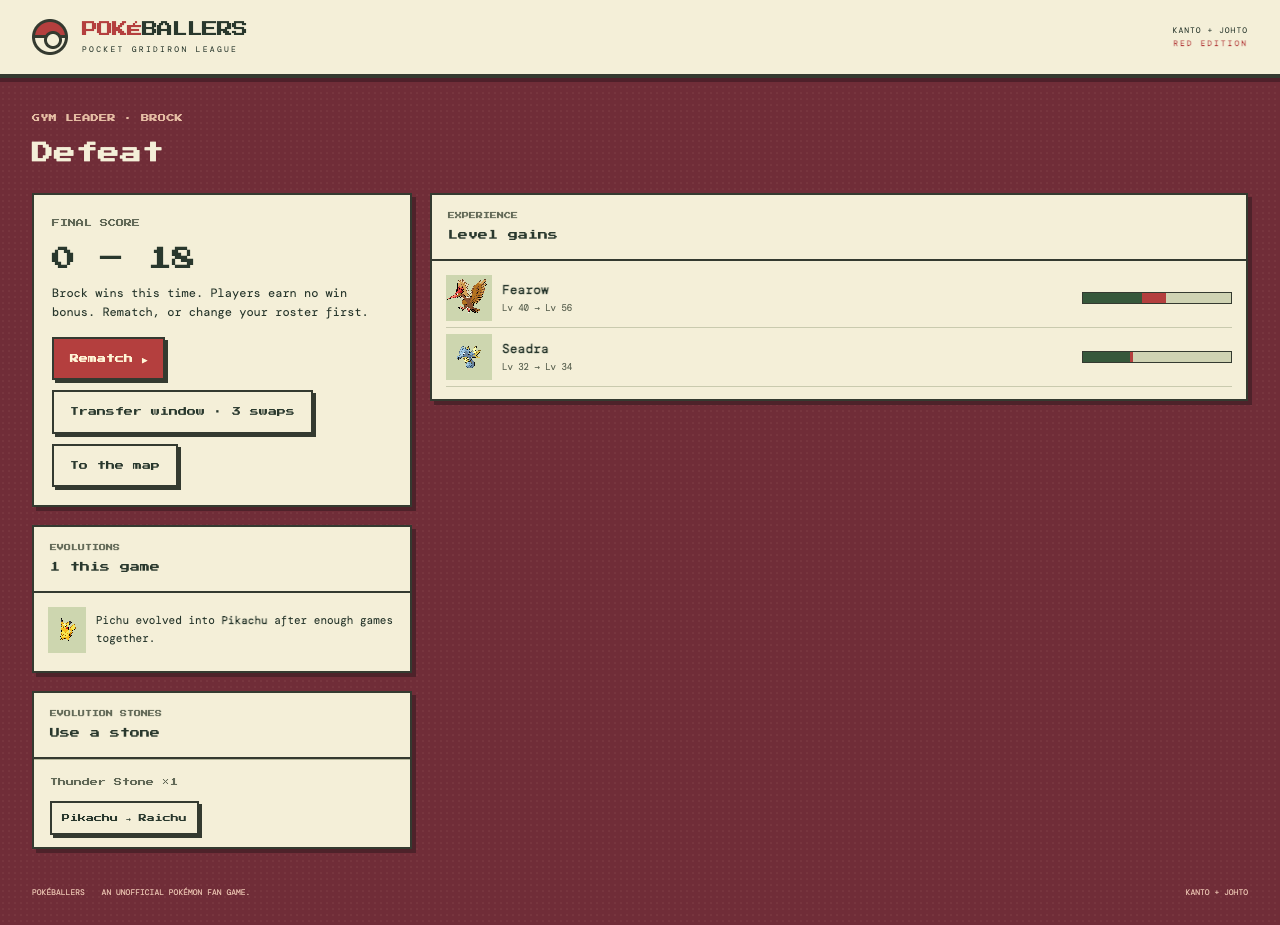
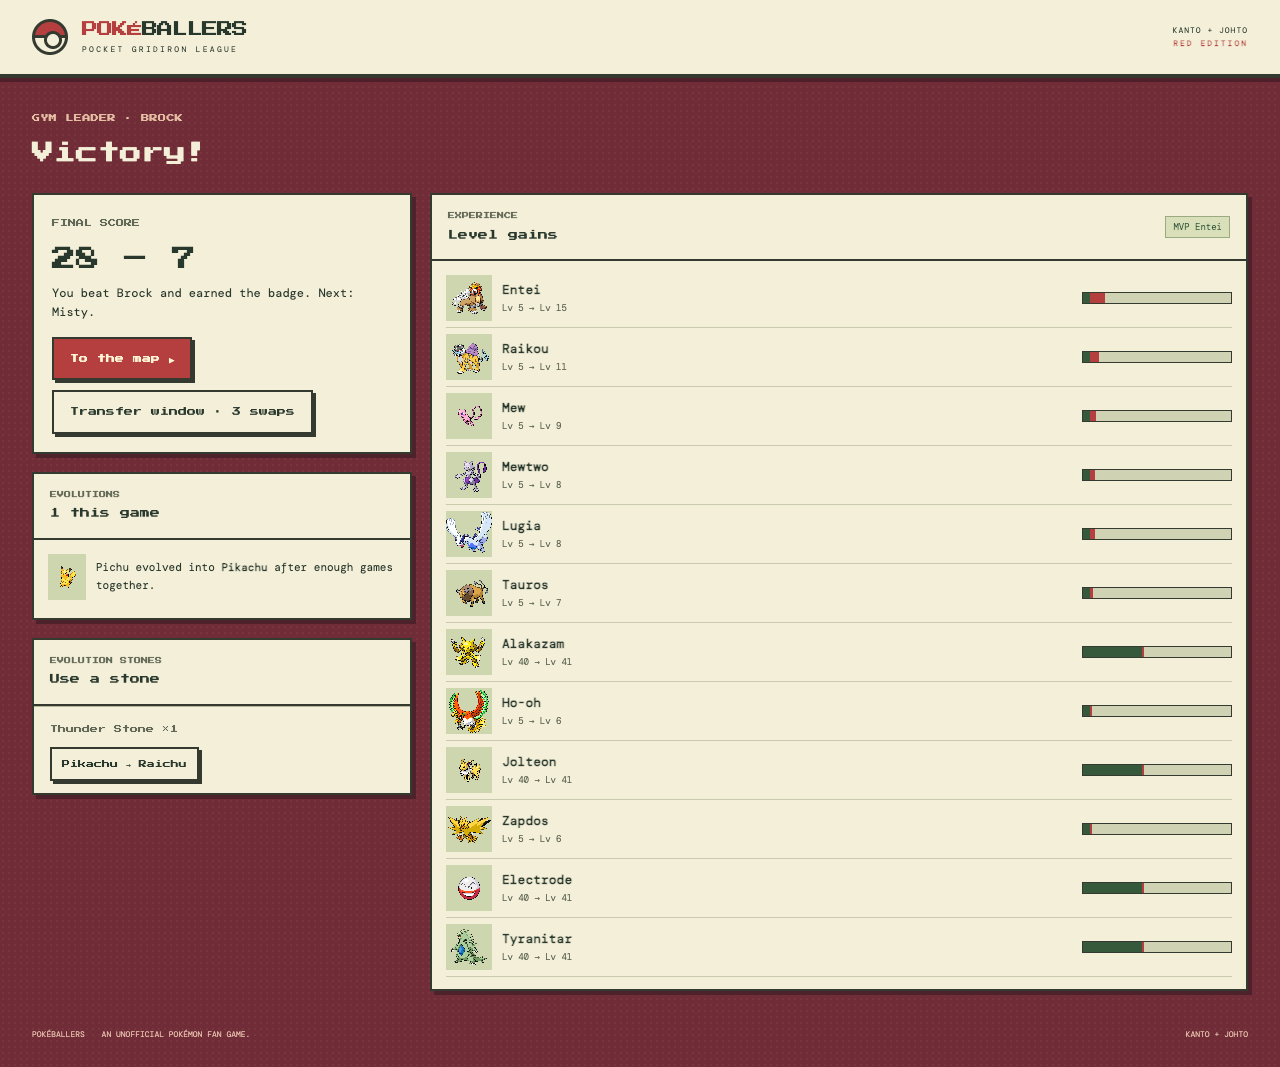
feat: tune leader caps and level gains
Leader caps come from node scripts/league-balance.cjs 200 0
(clashes on, CPU on both sides, human side on the auto clash
action, 13,000-credit evolvable-pool roster, no transfers).
Gains: impact x 0.4 rounded, plus 1 per win.

Cap, style, target, win%/game (first-try%):
Brock 9,800 run 80 81 (84); Misty 9,600 pass 76 77 (80);
Lt. Surge 9,500 pass 73 77 (78); Erika 10,075 run 69 63 (62);
Koga 9,800 pressure 65 67 (72); Sabrina 9,900 61 57 (63);
Blaine 12,300 58 54 (58); Giovanni 13,900 run 54 51 (53);
Lorelei 13,000 50 48 (57); Bruno 15,500 46 44 (48);
Agatha 14,200 pressure 43 37 (37); Lance 15,800 39 35 (43);
Rival 17,100 35 35 (44). All within 6 points of target.
93% of circuits finish. 64% of the 31 starting players
evolve at least once (68% of the 22 starters). With 3
upgrade transfers per window the roster wins 85% at Brock and
96-100% from Misty on.

Erika's rate jumps 87% to 51% between caps 10,072 and 10,075,
so her style is run. The leader core now reserves the cheapest
fill so low caps stay legal.

Claude-Session: https://claude.ai/code/session_013TCNSY2QJnqZSERSkBSb6u

diff --git a/src/game/league.js b/src/game/league.js
@@ -29,23 +29,25 @@
     static FINAL_LEVEL = 40;
     static NON_LEVEL_FLOOR = 20;
     static MAX_LEVEL = 100;
-    static WIN_BONUS = 2;
+    static WIN_BONUS = 1;
+    // Scales the box-score gains so a circuit evolves about half of the starting roster.
+    static IMPACT_SCALE = 0.4;
     static YARDS_PER_LEVEL = 10;
     static FRIENDSHIP_GAMES = 5;
     static LEADERS = [
-      { name: 'Brock', title: 'Gym Leader', type: 'Rock', style: 'run', cap: 15500, stone: null },
-      { name: 'Misty', title: 'Gym Leader', type: 'Water', style: 'pass', cap: 16500, stone: 'water-stone' },
-      { name: 'Lt. Surge', title: 'Gym Leader', type: 'Electric', style: 'pass', cap: 17500, stone: 'thunder-stone' },
-      { name: 'Erika', title: 'Gym Leader', type: 'Grass', style: 'balanced', cap: 18500, stone: 'leaf-stone' },
-      { name: 'Koga', title: 'Gym Leader', type: 'Poison', style: 'pressure', cap: 19500, stone: null },
-      { name: 'Sabrina', title: 'Gym Leader', type: 'Psychic', style: 'balanced', cap: 20500, stone: 'moon-stone' },
-      { name: 'Blaine', title: 'Gym Leader', type: 'Fire', style: 'balanced', cap: 22000, stone: 'fire-stone' },
-      { name: 'Giovanni', title: 'Gym Leader', type: 'Ground', style: 'run', cap: 23000, stone: 'sun-stone' },
-      { name: 'Lorelei', title: 'Elite Four', type: 'Ice', style: 'balanced', cap: 24000, stone: null },
-      { name: 'Bruno', title: 'Elite Four', type: 'Fighting', style: 'balanced', cap: 25000, stone: null },
-      { name: 'Agatha', title: 'Elite Four', type: 'Ghost', style: 'pressure', cap: 26000, stone: null },
-      { name: 'Lance', title: 'Elite Four', type: 'Dragon', style: 'balanced', cap: 27000, stone: null },
-      { name: 'Rival', title: 'Champion', type: null, style: 'balanced', cap: 28000, stone: null },
+      { name: 'Brock', title: 'Gym Leader', type: 'Rock', style: 'run', cap: 9800, stone: null },
+      { name: 'Misty', title: 'Gym Leader', type: 'Water', style: 'pass', cap: 9600, stone: 'water-stone' },
+      { name: 'Lt. Surge', title: 'Gym Leader', type: 'Electric', style: 'pass', cap: 9500, stone: 'thunder-stone' },
+      { name: 'Erika', title: 'Gym Leader', type: 'Grass', style: 'run', cap: 10075, stone: 'leaf-stone' },
+      { name: 'Koga', title: 'Gym Leader', type: 'Poison', style: 'pressure', cap: 9800, stone: null },
+      { name: 'Sabrina', title: 'Gym Leader', type: 'Psychic', style: 'balanced', cap: 9900, stone: 'moon-stone' },
+      { name: 'Blaine', title: 'Gym Leader', type: 'Fire', style: 'balanced', cap: 12300, stone: 'fire-stone' },
+      { name: 'Giovanni', title: 'Gym Leader', type: 'Ground', style: 'run', cap: 13900, stone: 'sun-stone' },
+      { name: 'Lorelei', title: 'Elite Four', type: 'Ice', style: 'balanced', cap: 13000, stone: null },
+      { name: 'Bruno', title: 'Elite Four', type: 'Fighting', style: 'balanced', cap: 15500, stone: null },
+      { name: 'Agatha', title: 'Elite Four', type: 'Ghost', style: 'pressure', cap: 14200, stone: null },
+      { name: 'Lance', title: 'Elite Four', type: 'Dragon', style: 'balanced', cap: 15800, stone: null },
+      { name: 'Rival', title: 'Champion', type: null, style: 'balanced', cap: 17100, stone: null },
     ];
 
     constructor(catalog, roster, seed) {
@@ -120,9 +122,13 @@
         .sort((a, b) => best(b) - best(a) || a.id - b.id);
       let spent = 0;
       const picked = [];
+      const cheapest = this.catalog.map((mon) => Roster.salary(mon)).sort((a, b) => a - b);
       for (const mon of stars) {
         if (picked.length === League.CORE_SIZE) break;
+        // The cheapest possible fill for the other slots must still fit under the cap.
+        const fill = cheapest.slice(0, POSITIONS.length - picked.length - 1).reduce((sum, value) => sum + value, 0);
         if (spent + Roster.salary(mon) > leader.cap * League.CORE_SHARE) continue;
+        if (spent + Roster.salary(mon) + fill > leader.cap) continue;
         spent += Roster.salary(mon);
         picked.push(mon);
       }
@@ -155,7 +161,8 @@
       const gains = this.roster.players.map((mon) => {
         const impact = League.impact(game.stats.home[mon.id]);
         const from = this.level(mon);
-        const to = Math.min(League.MAX_LEVEL, from + impact + (win ? League.WIN_BONUS : 0));
+        const earned = Math.round(impact * League.IMPACT_SCALE) + (win ? League.WIN_BONUS : 0);
+        const to = Math.min(League.MAX_LEVEL, from + earned);
         return { mon, impact, from, to };
       });
       const mvp = win ? gains.reduce((top, entry) => (entry.impact > top.impact ? entry : top)).mon : null;

diff --git a/docs/plans/league-engine.md b/docs/plans/league-engine.md
@@ -19,9 +19,9 @@ A circuit is a lifecycle across games, and `FootballGame` is one game. Putting l
 
 ## How it will be built
 
-1. **Constants.** `League.LEADERS` lists the 13 entries `{ name, type, style, cap, stone }` in circuit order. The caps run from 14,000 to 27,000 credits in even steps of 1,083, rounded to 500. Stones: Misty Water, Lt. Surge Thunder, Erika Leaf, Sabrina Moon, Blaine Fire. Styles: Brock and Giovanni `run`, Misty and Lt. Surge `pass`, Koga and Agatha `pressure`, all others `balanced`. The Champion has no type.
+1. **Constants.** `League.LEADERS` lists the 13 entries `{ name, type, style, cap, stone }` in circuit order. Each cap comes from `scripts/league-balance.cjs` (table in GAMEPLAY-IDEAS, Tuned values); uneven steps are expected. Stones: Misty Water, Lt. Surge Thunder, Erika Leaf, Sabrina Moon, Blaine Fire, Giovanni Sun. Styles: Brock, Erika and Giovanni `run`, Misty and Lt. Surge `pass`, Koga and Agatha `pressure`, all others `balanced`. The Champion has no type.
 2. **Leader core.** Rank every catalog Pokémon of the leader's type by its best `Roster.rating` over positions. Take up to 12 Pokémon, best first, while the core's salary stays within 60% of the cap. Assign each one to its best open slot (`POSITIONS` order, best rating first). Pass the core to `Roster.random` as fixed slots; it fills the rest under the remaining cap with its existing reserve rule. The leader roster is seeded from `League`'s `random`, so a retry faces the same team.
-3. **Levels.** A drafted Pokémon starts at its stage floor: a species with no `evolves_from` starts at 5; a species that evolves from another starts at the previous step's `min_level` (or 20 for a non-level step); a final form with no further evolution starts at 40. Gains after each game: `floor(yards / 10) + 3 × touchdowns + tackles + 2 × (sacks + interceptions) + moveHits`, plus 2 for every player on the winning team. Levels cap at 100.
+3. **Levels.** A drafted Pokémon starts at its stage floor: a species with no `evolves_from` starts at 5; a species that evolves from another starts at the previous step's `min_level` (or 20 for a non-level step); a final form with no further evolution starts at 40. Gains after each game: `floor(yards / 10) + 3 × touchdowns + tackles + 2 × (sacks + interceptions) + moveHits`, scaled by `League.IMPACT_SCALE` (0.4) and rounded, plus `League.WIN_BONUS` (1) for every player on the winning team. Levels cap at 100.
 4. **Evolution order.** After `record(game)`: level evolutions fire for every player at or above `min_level`; trade evolutions fire for the game MVP (the winning team's player with the highest gain); friendship evolutions fire at 5 games played. Stones go into `League.stones` and fire only through `evolve(monId, stone)`. An evolution whose target species is already on the roster waits and reports "already on your team". Each evolution returns an event `{ from, into, reason }` for the post-game screen.
 5. **Transfers.** `transfer(outId, inId)` swaps a roster player for a catalog Pokémon that is not on the roster, at most 3 per window. A transfer throws `RangeError` only when payroll after it is above the player's cap (13,000 plus 1,000 per badge, `League.playerCap`) and the transfer raises payroll; evolution may push payroll over the cap. Leader caps belong to leader rosters. The starting draft and `Roster.random` for the player use `League.startingPool` (Pokémon with an evolution left); transfers may bring in any Pokémon. Giovanni awards the Sun Stone. The window resets after each game. A transferred-in player starts at its stage floor.
 6. **Save.** `toJSON()` stores the stage index, badges, stones, per-player `{ id, level, games, moves }` in roster order, the transfers left, and the seed state of `random`. `fromJSON` rebuilds the same `League`; the saved `random` state makes the next leader roster and game identical. `GameApp` stores it under one key, `pokeballers.league.v1`, in `try/catch`.
@@ -31,7 +31,7 @@ A circuit is a lifecycle across games, and `FootballGame` is one game. Putting l
 
 - `tests/test_pokedex.py`: Bulbasaur → Ivysaur at 16; Pikachu → Raichu with the Thunder Stone; Kadabra → Alakazam by trade; Golbat → Crobat by friendship; no target above 251; no Fairy type; Clefairy is Normal.
 - `tests/test_league.cjs` (new, wired into `npm test`): every leader roster is legal under its cap; Agatha's roster holds all 4 Ghost types; `Roster.evolve` moves stamina, conditions, stages, and moveset to the new id; a duplicate target waits; a saved and reloaded league plays the next game with the same result; a fourth transfer throws; `FootballGame.stats` sums to the drive log's yards.
-- `scripts/league-balance.cjs`: 200 seeded circuits, CPU coaching both sides, a 13,000-credit starting roster. It prints the share of starters that evolve at least once (target 40–70%) and the win rate per leader (target: about 80% at Brock, falling to about 35% at the Champion). Tune the gain formula and the cap steps to hit the targets, and put the final numbers in the commit body.
+- `scripts/league-balance.cjs`: 200 seeded circuits, CPU coaching both sides, a 13,000-credit starting roster. It prints the share of starters that evolve at least once (target 40–70%) and the win rate per leader (target: about 80% at Brock, falling to about 35% at the Champion). The simulation resolves each clash with the auto action on the human side. The final tables are in GAMEPLAY-IDEAS, Tuned values.
 - Playwright (headless Chrome via the scratchpad install): start a circuit, beat Brock with a seeded win, see the report with one evolution, make one transfer, reload the page, and see the saved league. Screenshots at 1280px and 390px go under `docs/screenshots/png/league-*.png`.
 
 ## Risks

diff --git a/docs/GAMEPLAY-IDEAS.md b/docs/GAMEPLAY-IDEAS.md
@@ -34,7 +34,7 @@ The circuit is 13 games in a fixed order: Brock (Rock), Misty (Water), Lt. Surge
 
 ### Leader rosters
 
-A leader's roster starts from a type core: up to 12 Pokémon of the leader's type, the highest-rated at their best positions, within 60% of the leader's credit cap. The existing `Roster.random()` rule fills the remaining slots with the rest of the cap. The core keeps the identity (Agatha's 4 Ghost types are her stars) and the fill keeps a full, legal 31-player team. Caps rise from 14,000 credits for Brock to 27,000 for the Champion in even steps, so early gyms are winnable with a starter roster.
+A leader's roster starts from a type core: up to 12 Pokémon of the leader's type, the highest-rated at their best positions, within 60% of the leader's credit cap. The existing `Roster.random()` rule fills the remaining slots with the rest of the cap. The core keeps the identity (Agatha's 4 Ghost types are her stars) and the fill keeps a full, legal 31-player team. Each leader's cap comes from the balance simulation (Tuned values), so early gyms are winnable with a starter roster.
 
 Each leader has a play style: Brock and Giovanni favor runs, Misty and Lt. Surge favor passes, Koga and Agatha favor blitzes and trick plays, and the rest stay balanced. The style adds a fixed bonus to its group in the CPU call score, so the CPU still reacts to down, distance, and clock.
 
@@ -42,7 +42,7 @@ Each leader has a play style: Brock and Giovanni favor runs, Misty and Lt. Surge
 
 You draft once at the start, under 13,000 credits. Your roster carries forward: players, movesets, and levels.
 
-- **Levels.** Every drafted player starts at the lowest level of its evolution stage (a base form at 5, a middle form at the level it evolved, a final form at 40). After each game, each player gains levels from its impact: 1 level per 10 yards gained, 3 per touchdown, 1 per tackle, 2 per sack or interception, and 1 per move hit, plus 2 for every player on the winning team. Impact comes from the drive log and `result.participants`, which the engine already records.
+- **Levels.** Every drafted player starts at the lowest level of its evolution stage (a base form at 5, a middle form at the level it evolved, a final form at 40). After each game, each player gains levels from its impact: 1 level per 10 yards gained, 3 per touchdown, 1 per tackle, 2 per sack or interception, and 1 per move hit, scaled by 0.4 and rounded, plus 1 for every player on the winning team. Impact comes from the drive log and `result.participants`, which the engine already records.
 - **Evolution.** A player evolves when its level reaches the PokeAPI `min_level`. Badges award evolution stones: Misty the Water Stone, Lt. Surge the Thunder Stone, Erika the Leaf Stone, Blaine the Fire Stone, Sabrina the Moon Stone. A stone evolves one player of your choice on the post-game screen. Trade evolutions (Kadabra, Machoke, Graveler, Haunter, and others) evolve when that player is the game MVP. Friendship evolutions (Pichu, Cleffa, Igglybuff, Togepi, Golbat, Chansey) evolve after 5 games played. Eevee takes the stone you give it.
 - **What an evolution changes.** The player takes the evolved species' base stats, types, sprite, and learnset. It keeps every known move that the new species still learns; the freed slots fill by the default-moveset rule. Its salary rises to the new species' salary.
 - **The transfer window.** Between games you swap up to 3 players with the free-agent pool, and the full roster must fit the next game's cap. Evolution raises salaries, so a strong evolved core forces you to trade depth for stars. That decision is the strategy layer of the circuit.
@@ -58,6 +58,28 @@ The scraper adds each Gen 1–2 species' evolution: the target species, trigger,
 - **League map:** the badge case, the next leader card with an original trainer portrait in the existing art style, the leader's type and style, and **Challenge**.
 - **Post-game report:** per-player experience bars, level-ups, and the evolution sequence ("What? Pikachu is evolving!") drawn on the `BattleStage` clock and skippable.
 - **Transfer window:** the existing draft screen with a 3-swap counter and the next leader's cap.
+
+### Tuned values
+
+Source: `node scripts/league-balance.cjs 200 0` with clashes on, CPU coaching both sides, the human side on its auto clash action, a 13,000-credit starting roster drafted from the evolvable pool, no transfers, 12 tries per leader. The player's payroll cap is 13,000 plus 1,000 per badge. Gain formula: box-score impact scaled by `IMPACT_SCALE` 0.4 and rounded, plus `WIN_BONUS` 1.
+
+| Leader | Cap | Style | Target win % | Win % per game | First-try win % |
+| --- | --- | --- | --- | --- | --- |
+| Brock | 9,800 | run | 80 | 81 | 84 |
+| Misty | 9,600 | pass | 76 | 77 | 80 |
+| Lt. Surge | 9,500 | pass | 73 | 77 | 78 |
+| Erika | 10,075 | run | 69 | 63 | 62 |
+| Koga | 9,800 | pressure | 65 | 67 | 72 |
+| Sabrina | 9,900 | balanced | 61 | 57 | 63 |
+| Blaine | 12,300 | balanced | 58 | 54 | 58 |
+| Giovanni | 13,900 | run | 54 | 51 | 53 |
+| Lorelei | 13,000 | balanced | 50 | 48 | 57 |
+| Bruno | 15,500 | balanced | 46 | 44 | 48 |
+| Agatha | 14,200 | pressure | 43 | 37 | 37 |
+| Lance | 15,800 | balanced | 39 | 35 | 43 |
+| Rival | 17,100 | balanced | 35 | 35 | 44 |
+
+Every leader sits within 6 points of its linear target. Erika's win rate jumps from 87% to 51% between caps of 10,072 and 10,075 (one star leaves her core), so her style is `run` to land at 63%. 93% of circuits finish. 64% of the 31 starting players evolve at least once (68% of the 22 starters). With 3 upgrade transfers per window, win rates reach 85% at Brock and 96-100% from Misty on, so transfers decide the circuit.
 
 ## Feature 2: Contact Clash
 

diff --git a/README.md b/README.md
@@ -124,11 +124,11 @@ The CPU calls plays from down, distance, field position, score, clock, roster ra
 
 ### Gym Challenge
 
-Choose **Gym Challenge** on the start screen to play a 13-game Kanto circuit: Brock, Misty, Lt. Surge, Erika, Koga, Sabrina, Blaine, Giovanni, the Elite Four (Lorelei, Bruno, Agatha, Lance), and your rival. Draft once under 13,000 credits from the Pokémon that still have an evolution left (base and middle forms). Each leader fields a team built around their type (up to 12 stars) under a credit cap that rises from 15,500 to 28,000, and favors a style: run-heavy, pass-heavy, or blitz and tricks. A win earns the badge and opens the next leader; a loss lets you rematch.
+Choose **Gym Challenge** on the start screen to play a 13-game Kanto circuit: Brock, Misty, Lt. Surge, Erika, Koga, Sabrina, Blaine, Giovanni, the Elite Four (Lorelei, Bruno, Agatha, Lance), and your rival. Draft once under 13,000 credits from the Pokémon that still have an evolution left (base and middle forms). Each leader fields a team built around their type (up to 12 stars) under a credit cap from 9,500 (Lt. Surge) to 17,100 (the rival) that the balance simulation sets per leader, and favors a style: run-heavy, pass-heavy, or blitz and tricks. A win earns the badge and opens the next leader; a loss lets you rematch.
 
 ![The Gym Challenge map with the badge case and roster levels](docs/screenshots/png/league-map-save-1280.png)
 
-Your roster carries from game to game. Every player starts at the lowest level of its evolution stage and gains levels from its box score (1 per 10 yards, 3 per touchdown, 1 per tackle, 2 per sack or interception, 1 per move hit) plus 2 for everyone after a win. A player evolves when it reaches its evolution level. Trade evolutions (Kadabra, Machoke, Graveler, Haunter, and others) need that player to be the game MVP, and friendship evolutions (Pichu, Cleffa, Igglybuff, Togepi, Golbat, Chansey) need 5 games played. Misty, Lt. Surge, Erika, Sabrina, Blaine, and Giovanni award the Water, Thunder, Leaf, Moon, Fire, and Sun Stones; use a stone on the post-game screen to evolve a player of your choice. An evolution keeps the moves the new species can learn and takes the new species' stats, types, and salary.
+Your roster carries from game to game. Every player starts at the lowest level of its evolution stage and gains levels from its box score (1 per 10 yards, 3 per touchdown, 1 per tackle, 2 per sack or interception, 1 per move hit, all scaled by 0.4 and rounded) plus 1 for everyone after a win. A player evolves when it reaches its evolution level. Trade evolutions (Kadabra, Machoke, Graveler, Haunter, and others) need that player to be the game MVP, and friendship evolutions (Pichu, Cleffa, Igglybuff, Togepi, Golbat, Chansey) need 5 games played. Misty, Lt. Surge, Erika, Sabrina, Blaine, and Giovanni award the Water, Thunder, Leaf, Moon, Fire, and Sun Stones; use a stone on the post-game screen to evolve a player of your choice. An evolution keeps the moves the new species can learn and takes the new species' stats, types, and salary.
 
 Between games the **transfer window** lets you swap up to three players with the free-agent pool. Your payroll cap starts at 13,000 credits and rises 1,000 per badge. A swap cannot raise payroll above that cap, but evolution can push payroll over it, so a strong evolved core leaves little room for depth. Swaps can bring in any Pokémon. The circuit saves in your browser (`localStorage`) after every game, and **New circuit** asks before it deletes the save. If the browser blocks storage, the circuit still plays and a notice says progress is not saved. Winning the rival's game opens the Hall of Fame.
 

diff --git a/docs/ARCHITECTURE.md b/docs/ARCHITECTURE.md
@@ -69,7 +69,7 @@ Before the snap a coach picks one actor and one move from the MOVES list; the CP
 
 ## How a circuit works
 
-`League.start()` copies your drafted roster and draws a circuit seed. `League.game()` builds a `FootballGame` against the next leader: the leader roster comes from the seed and the leader index, so a rematch faces the same team, and the game uses the league's own saved `SeededRandom`. `FootballGame.stats` is a per-side box score keyed by Pokémon id; `League.record()` turns it into levels, awards the badge and stone on a win, and fires level, trade (game MVP), and friendship evolutions through `Roster.evolve`, which moves stamina, conditions, stages, and the moveset to the new id. A target already on the roster waits. `League.transfer()` swaps a player with the free-agent pool, at most three per window, and refuses a swap that raises payroll above the player's cap (13,000 plus 1,000 per badge; evolution may exceed it). Leader caps apply only to leader rosters. The circuit draft draws from `League.startingPool`: Pokémon with an evolution left.
+`League.start()` copies your drafted roster and draws a circuit seed. `League.game()` builds a `FootballGame` against the next leader: the leader roster comes from the seed and the leader index, so a rematch faces the same team, and the game uses the league's own saved `SeededRandom`. `FootballGame.stats` is a per-side box score keyed by Pokémon id, written in `finishSnap` so a clash play counts after `resolveClash` completes it; `League.record()` turns it into levels, awards the badge and stone on a win, and fires level, trade (game MVP), and friendship evolutions through `Roster.evolve`, which moves stamina, conditions, stages, and the moveset to the new id. A target already on the roster waits. `League.transfer()` swaps a player with the free-agent pool, at most three per window, and refuses a swap that raises payroll above the player's cap (13,000 plus 1,000 per badge; evolution may exceed it). Leader caps apply only to leader rosters and come from `node scripts/league-balance.cjs`, which plays seeded circuits with the CPU on both sides and the human side on its auto clash action. The circuit draft draws from `League.startingPool`: Pokémon with an evolution left.
 
 `GameApp` owns the screens' lifecycle and the save: it writes `League.toJSON()` to `localStorage` under `pokeballers.league.v1` after every game, stone, and transfer, inside `try/catch`. A failed read starts a fresh circuit and a failed write shows a notice. `LeagueView` draws the screens; the evolution sequence runs on the single `BattleStage` clock, so pause, skip, cancellation, and reduced motion apply to it.
 
